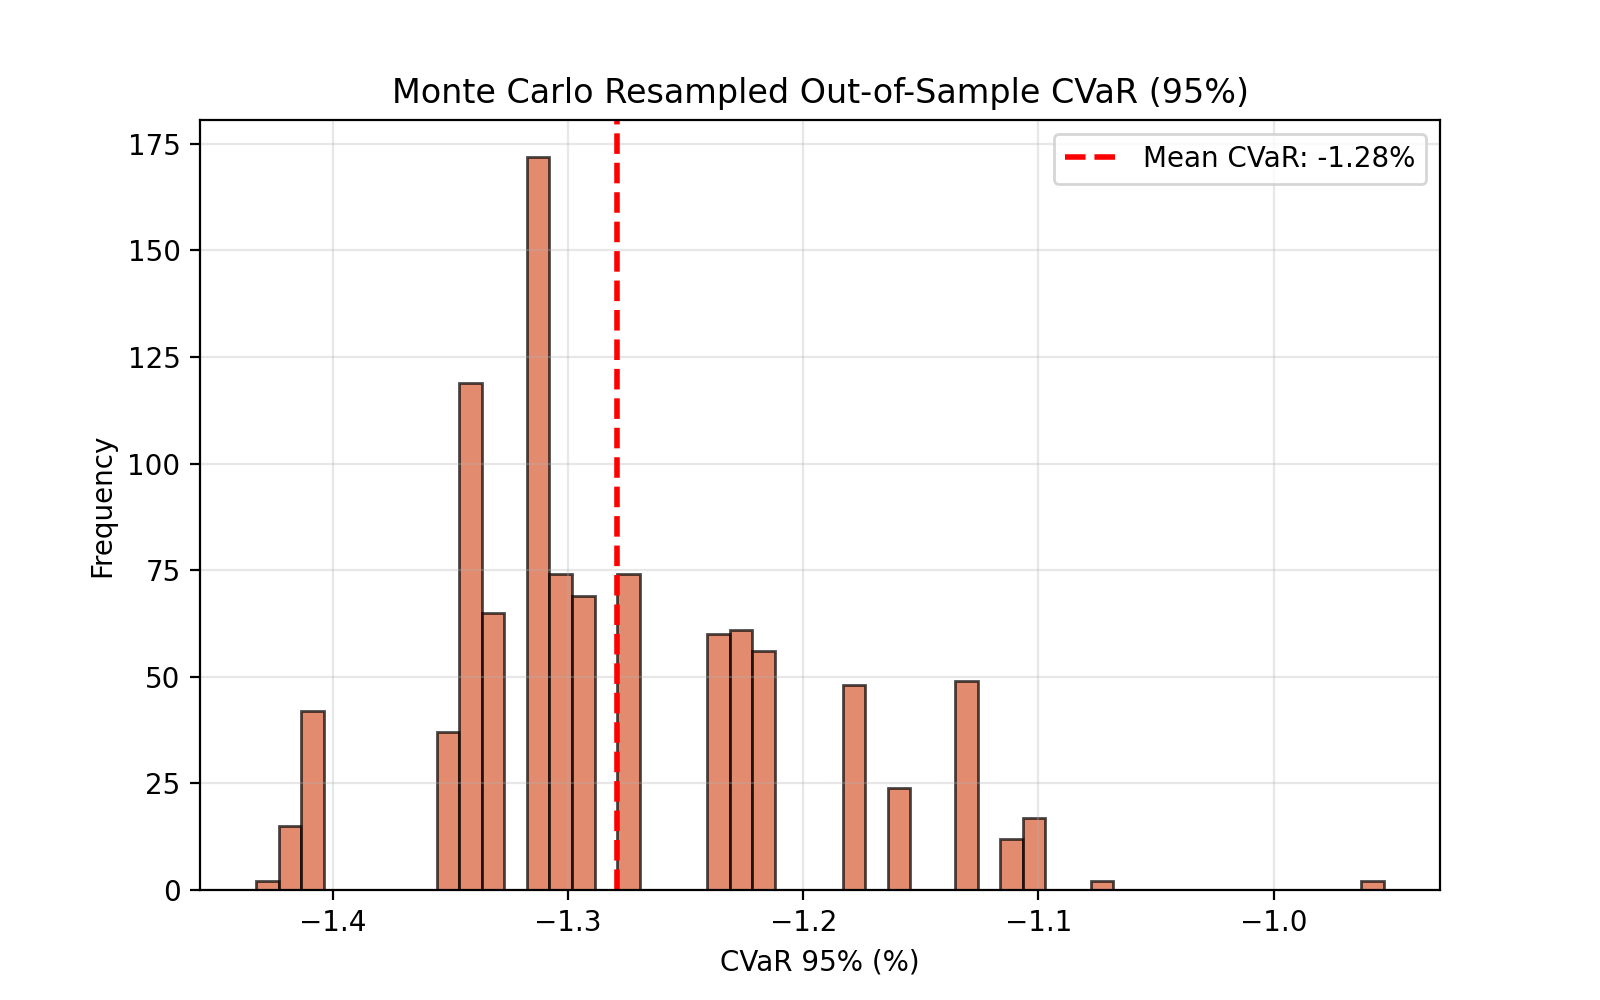
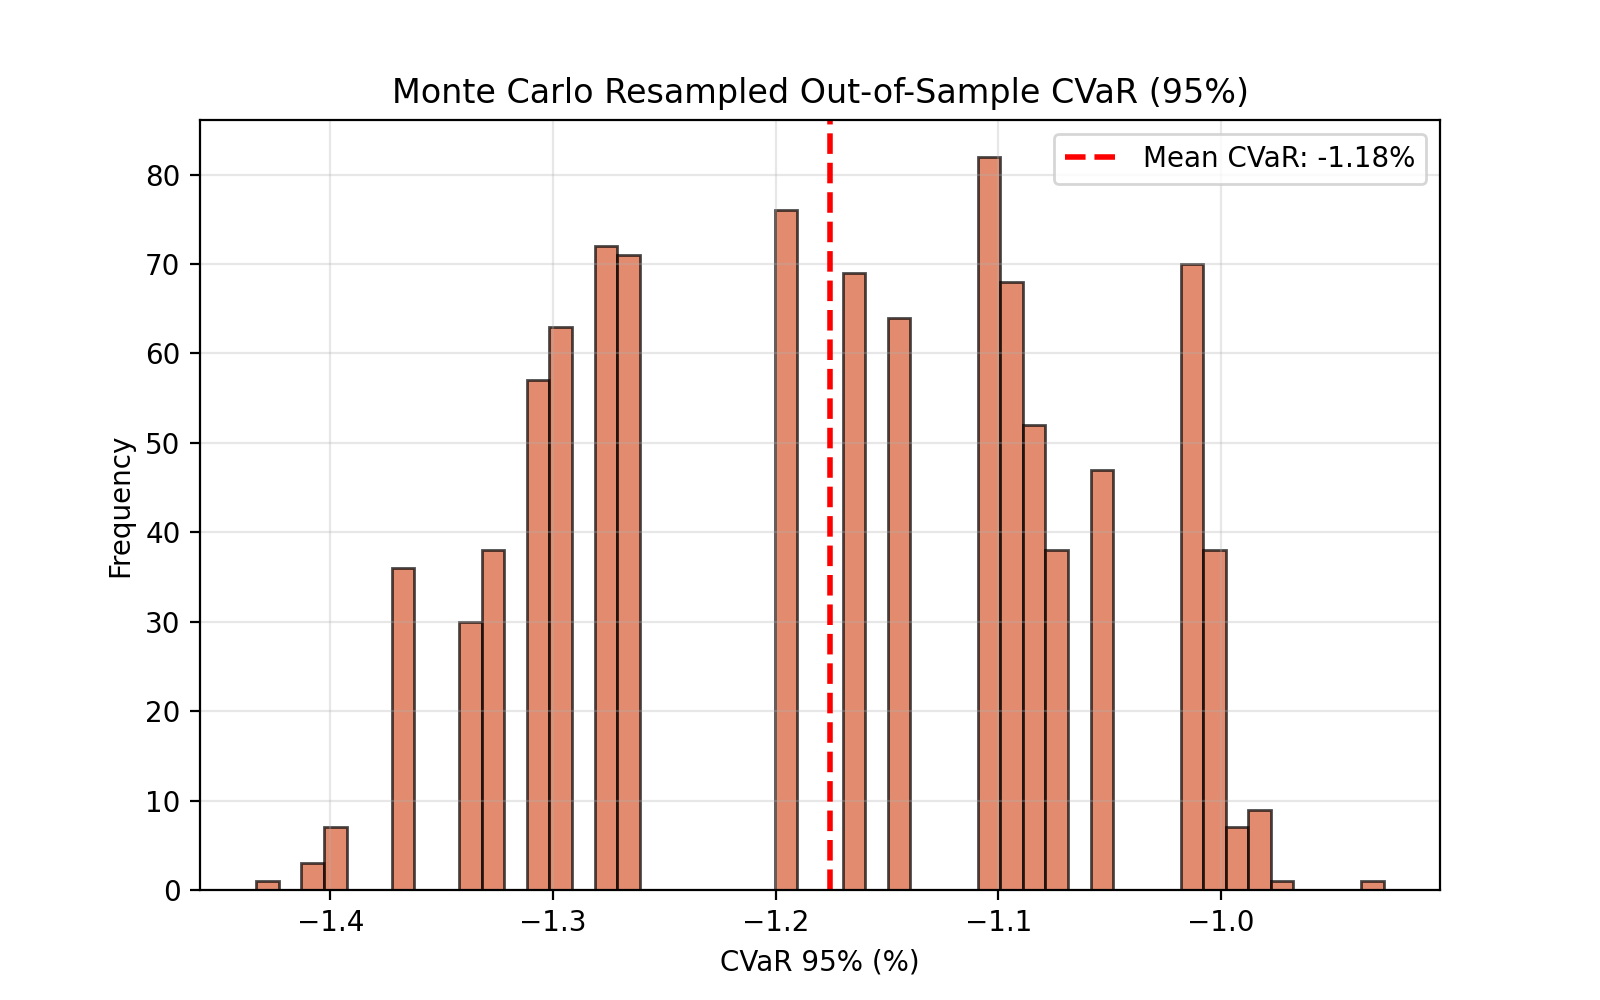
feat: add cumulative return and drawdown profile graphs to manuscript

diff --git a/scripts/run_experiments_v4.py b/scripts/run_experiments_v4.py
@@ -230,6 +230,56 @@ def run_qf_experiments(output_dir="strategies/AOBL-SOS/v4/backtest_results"):
     plt.legend()
     plt.grid(alpha=0.3)
     plt.savefig(os.path.join(output_dir, "cpcv_distribution.png"), dpi=200)
+    plt.close()
+    
+    # ---------------------------------------------------------
+    # 4. Cumulative Returns & Drawdown Profile Plots
+    # ---------------------------------------------------------
+    print("\n[4] Generating Cumulative Returns and Drawdown Profiles...")
+    
+    # Cumulative Returns
+    cum_aobl = np.cumprod(1 + net_rets)
+    cum_eq = np.cumprod(1 + eq_rets)
+    
+    # Also evaluate Ledoit-Wolf for the plot
+    res_lw = compute_net_metrics_almgren_chriss(w_lw, test_ret, test_vol, train_ret, aum=aum, rf_annual=rf_annual)
+    cum_lw = np.cumprod(1 + res_lw['net_returns'])
+    
+    plt.figure(figsize=(10, 6))
+    plt.plot(test_ret.index, cum_aobl, label='AOBL-SOS (Net)', color='#D85A30', linewidth=2)
+    plt.plot(test_ret.index, cum_lw, label='Ledoit-Wolf Shrinkage (Net)', color='steelblue', linewidth=1.5)
+    plt.plot(test_ret.index, cum_eq, label='1/N Equal Weight (Net)', color='gray', linestyle='dashed', linewidth=1.5)
+    plt.title('Out-of-Sample Cumulative Net Returns (Almgren-Chriss Execution)')
+    plt.ylabel('Cumulative Growth')
+    plt.xlabel('Date')
+    plt.legend()
+    plt.grid(alpha=0.3)
+    plt.tight_layout()
+    plt.savefig(os.path.join(output_dir, "cumulative_net_returns.png"), dpi=200)
+    plt.close()
+    
+    # Drawdown Profile
+    def get_drawdown(cum_ret):
+        peak = np.maximum.accumulate(cum_ret)
+        return (cum_ret - peak) / peak
+        
+    dd_aobl = get_drawdown(cum_aobl)
+    dd_lw = get_drawdown(cum_lw)
+    dd_eq = get_drawdown(cum_eq)
+    
+    plt.figure(figsize=(10, 4))
+    plt.plot(test_ret.index, dd_aobl * 100, label='AOBL-SOS Drawdown', color='#D85A30', linewidth=1.5)
+    plt.plot(test_ret.index, dd_lw * 100, label='Ledoit-Wolf Drawdown', color='steelblue', linewidth=1)
+    plt.plot(test_ret.index, dd_eq * 100, label='1/N Drawdown', color='gray', linestyle='dashed', linewidth=1)
+    plt.fill_between(test_ret.index, dd_aobl * 100, 0, color='#D85A30', alpha=0.1)
+    plt.title('Out-of-Sample Drawdown Profile')
+    plt.ylabel('Drawdown (%)')
+    plt.xlabel('Date')
+    plt.legend()
+    plt.grid(alpha=0.3)
+    plt.tight_layout()
+    plt.savefig(os.path.join(output_dir, "drawdown_profile.png"), dpi=200)
+    plt.close()
     
     print("\nExperiments completed. Output files generated in:", output_dir)
 

diff --git a/manuscript/paper.tex b/manuscript/paper.tex
@@ -116,6 +116,20 @@ Equal Weight (1/N) & 11.19\% & 12.71\% & 0.880 & 1.395 & --11.52\% & 0.971 \\
 
 Table \ref{tab:master_benchmark_ac} demonstrates that even under the severe penalties of the Almgren-Chriss liquidity model, the AOBL-SOS framework exhibits superior drawdown protection (8.25\% max drawdown compared to Ledoit-Wolf's 10.40\% and Markowitz's 10.92\%) resulting in an exceptional Calmar ratio of 3.053. 
 
+\begin{figure}[htbp]
+\centering
+\includegraphics[width=0.8\textwidth]{cumulative_net_returns.png}
+\caption{Out-of-Sample Cumulative Net Returns (Almgren-Chriss Execution)}
+\label{fig:cumulative_returns}
+\end{figure}
+
+\begin{figure}[htbp]
+\centering
+\includegraphics[width=0.8\textwidth]{drawdown_profile.png}
+\caption{Out-of-Sample Drawdown Profile}
+\label{fig:drawdown}
+\end{figure}
+
 \subsection{Statistical Significance of Outperformance}
 To definitively reject the null hypothesis that the strategy's outperformance is merely due to sampling error, we apply the Jobson-Korkie robust test (with Memmel's correction) \cite{jobson1981, memmel2003}. We compare the daily return stream of the AOBL-SOS median execution path against the DeMiguel 1/N naive baseline \cite{demiguel2009}. 
 
